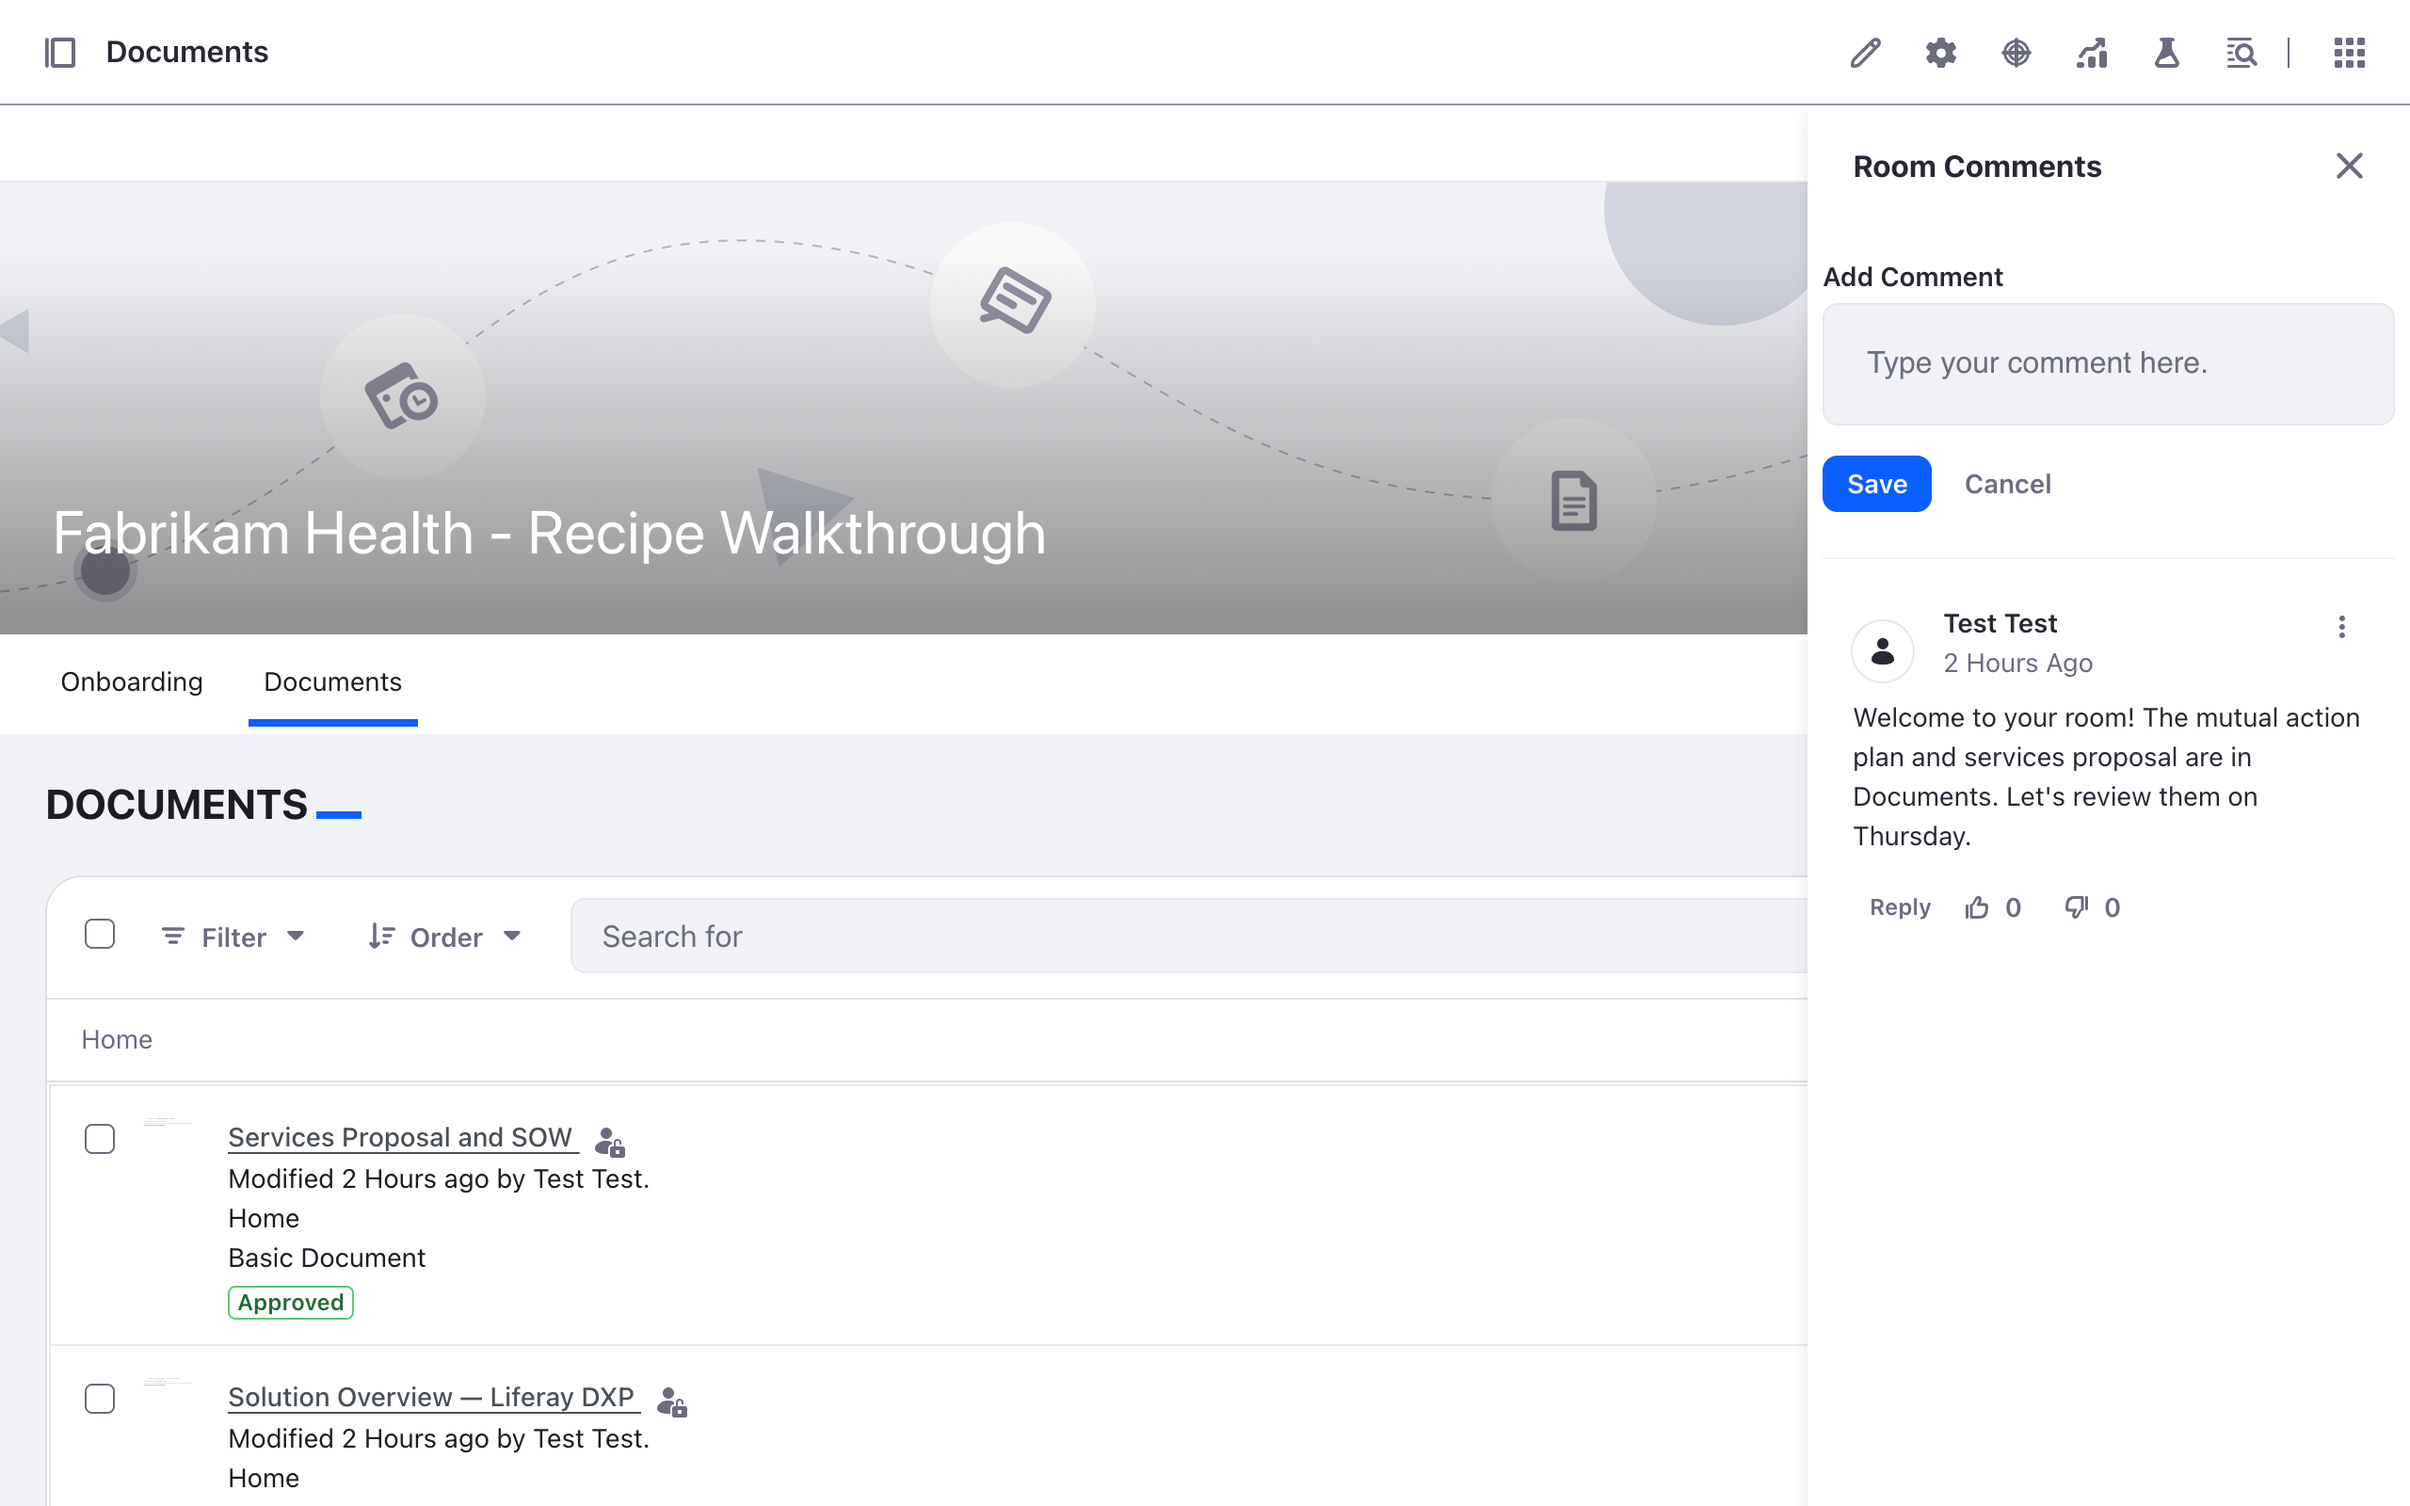
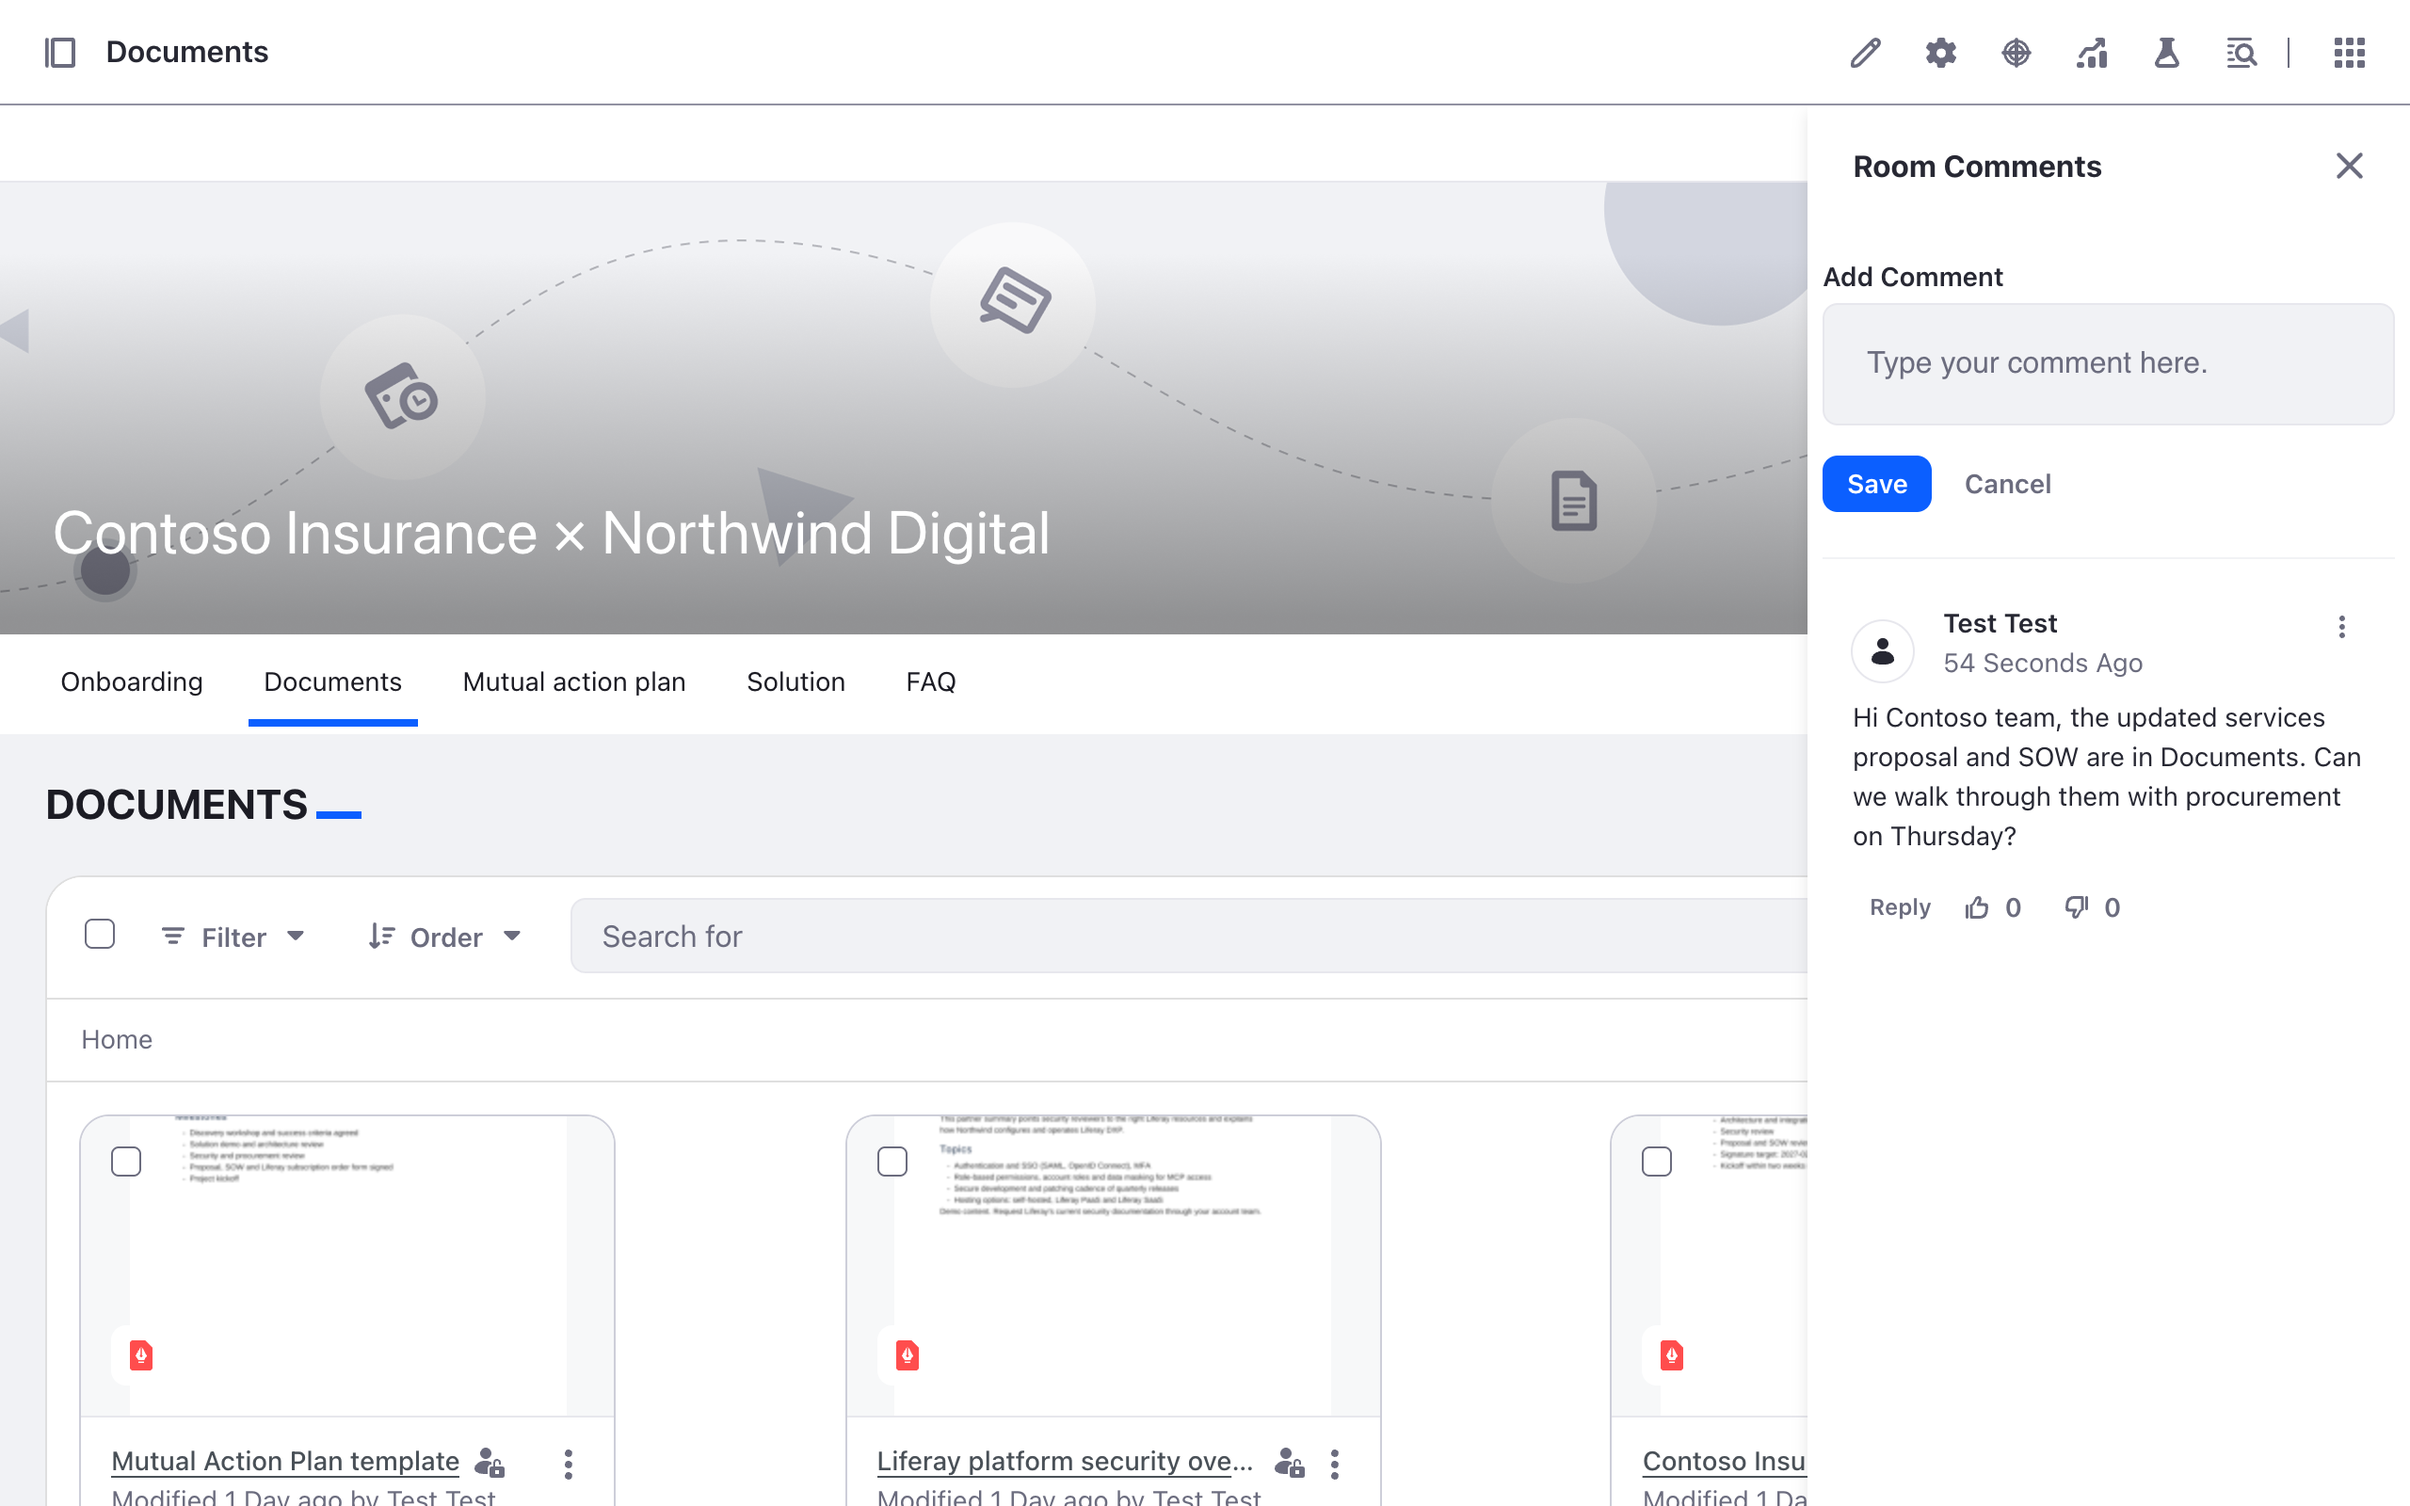
Digital Sales Rooms recipe: room screenshots and captions from the Contoso room

diff --git a/docs/digital-sales-rooms/index.md b/docs/digital-sales-rooms/index.md
@@ -156,7 +156,7 @@ In 2026.Q4.0, DSR blocks placed through `headless-admin-site` save but do not re
 
 1. Click **Save**. The room opens in the page editor, where you can tailor it before you invite anyone.
 
-   [![A new room in the page editor.](room-editor.png){: .screenshot }](room-editor.png)
+   [![The Contoso Insurance room's Onboarding page in the page editor, with the template's tabs and the account executive's welcome.](room-editor.png){: .screenshot }](room-editor.png)
 
 Seconds later, the object action has added the template pages and the personal welcome:
 
@@ -183,7 +183,7 @@ The demo uses one room for each kind of story a partner meets:
 
 **Documents.** Upload the deal's proposal, draft SOW and mutual action plan, plus shared collateral such as the security overview, under **Documents**. Each document stays inside its room, and every preview and download counts in the analytics. ([Managing Room Documents](https://learn.liferay.com/w/digital-sales-room/managing-room-documents))
 
-[![A room's Documents tab with the services proposal, the solution overview and the mutual action plan.](room-documents.png){: .screenshot }](room-documents.png)
+[![The Contoso Insurance room's Documents tab: Contoso's own mutual action plan and services proposal next to shared collateral such as the Liferay platform security overview.](room-documents.png){: .screenshot }](room-documents.png)
 
 **Invite by role, with an end date.** Click **Share**, enter emails, pick a role and optionally set **Access Valid Until**. Access then ends at the end of that day (UTC). Invitations are valid for 48 hours.
 
@@ -193,11 +193,11 @@ The demo uses one room for each kind of story a partner meets:
 | Solutions architect, delivery lead | **Content Contributor**: view, comment, upload, share |
 | Other buyers, outside advisors | **Viewer**: view and comment |
 
-[![The Share dialog: a buyer's email, Access Valid Until, and the three room roles.](share-roles.png){: .screenshot }](share-roles.png)
+[![Sharing the Contoso Insurance room: a buyer's email, Access Valid Until, the three room roles, and the seller team and buyers who already have access.](share-roles.png){: .screenshot }](share-roles.png)
 
 **Comments.** Use the speech-bubble icon in the room header for questions and answers, with @mentions, so they stay out of email. ([Room Comments](https://learn.liferay.com/w/digital-sales-room/room-comments))
 
-[![Room Comments: the seller's note to the buyer, with Reply and votes.](room-comments.png){: .screenshot }](room-comments.png)
+[![Room Comments in the Contoso Insurance room: the seller asks the buyer to review the proposal and SOW with procurement, with Reply and votes.](room-comments.png){: .screenshot }](room-comments.png)
 
 **Close it out.** When a deal is lost, set the trend to *Closed Lost* and **Archive** the room. Archiving can be undone. It makes the room read-only for buyers and keeps the history for the loss review. **Duplicate** copies the pages and the documents you choose into a new room, without comments or members.
 
